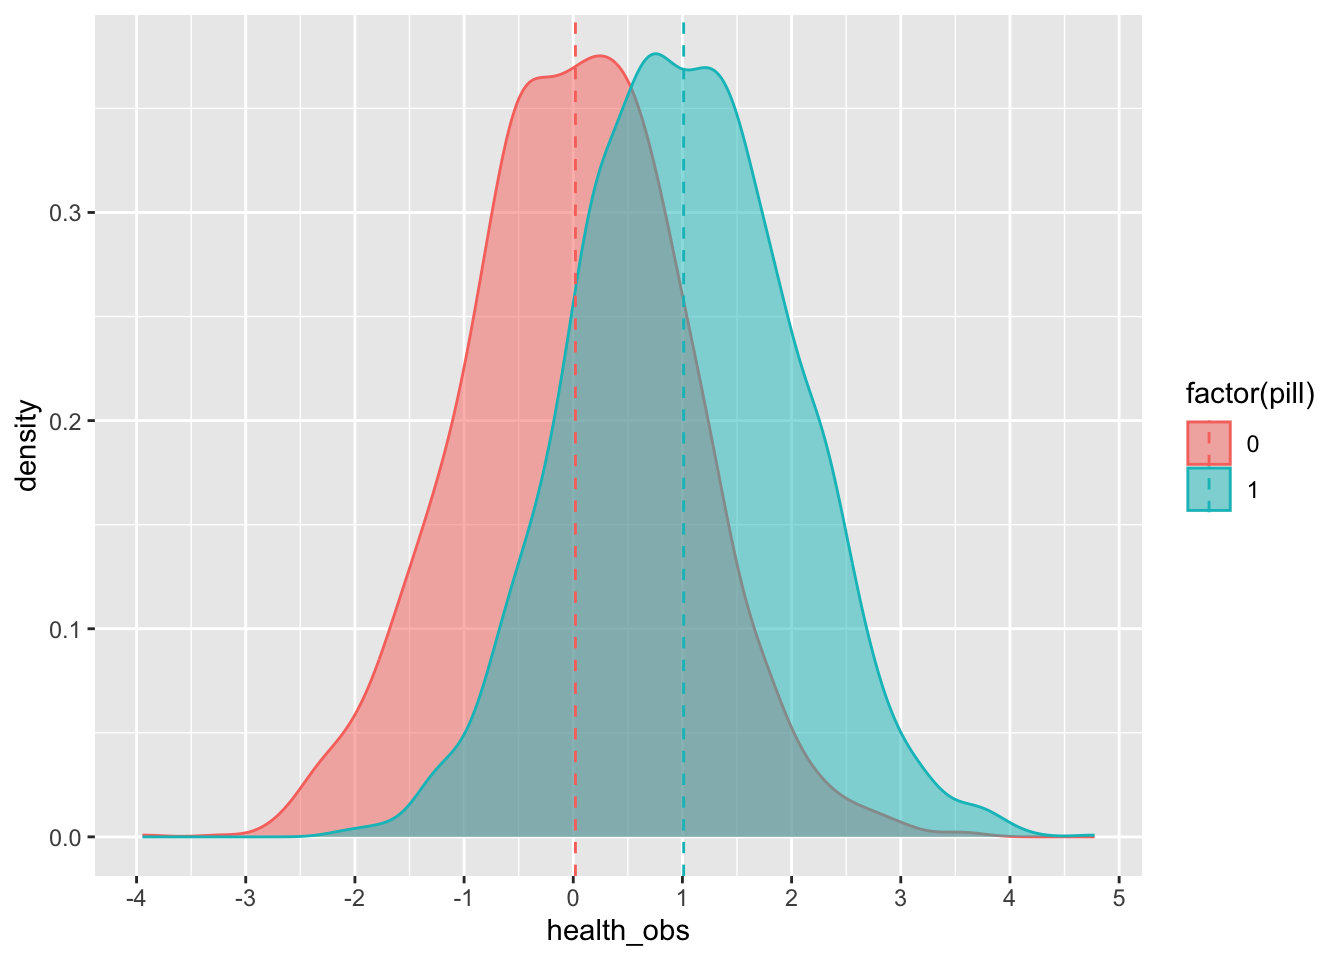
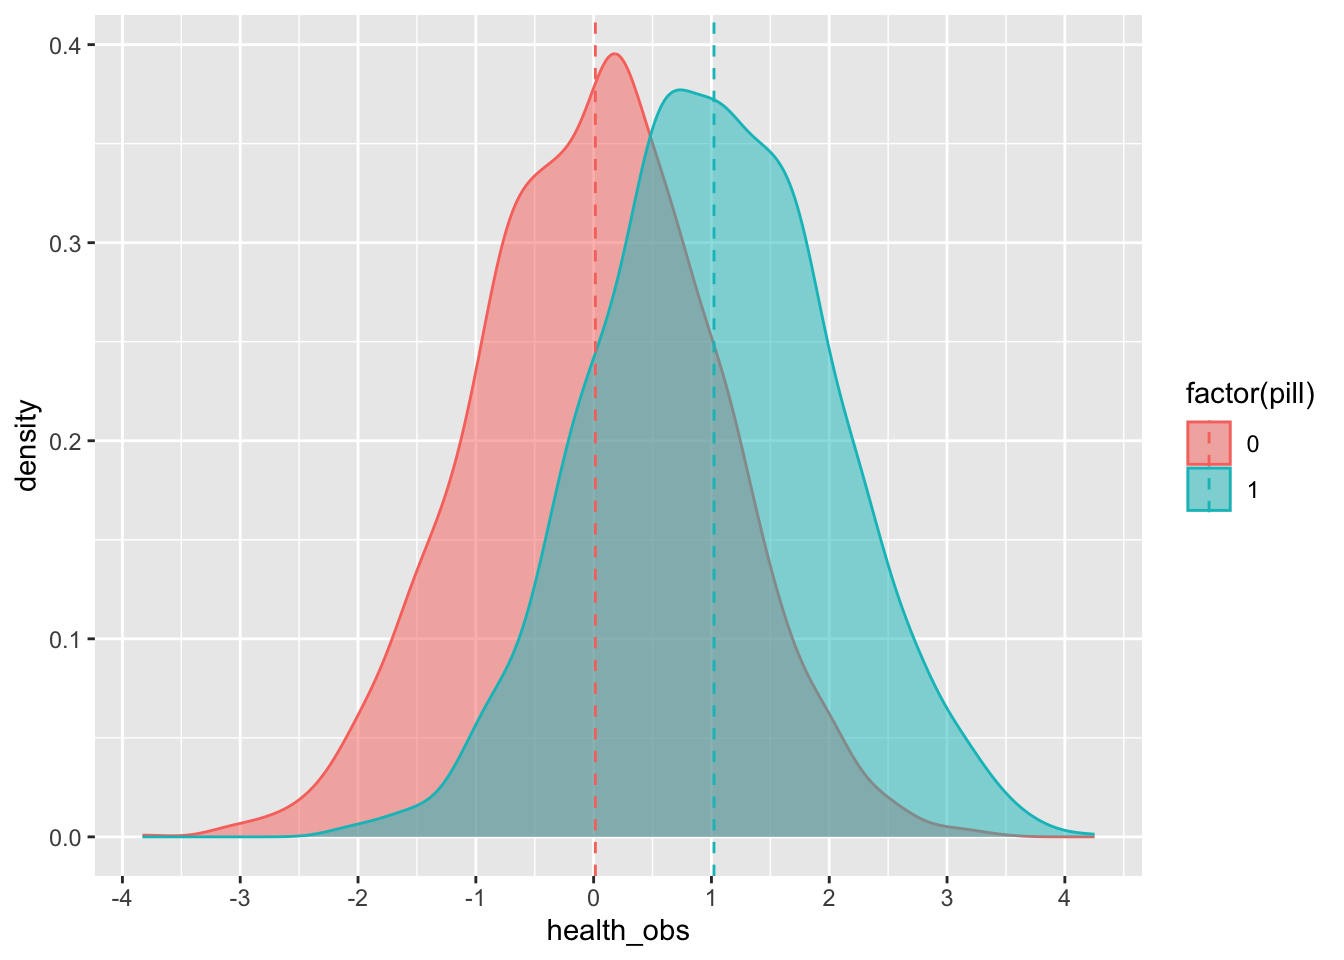
tutorial2

diff --git a/docs/lecture-2-introduction-to-causal-inference.html b/docs/lecture-2-introduction-to-causal-inference.html
@@ -95,11 +95,11 @@ Figure 2.1: Slides for 3 Introduction to Causal Inference.
 <tbody>
 <tr class="odd">
 <td align="left">0</td>
-<td align="right">2476</td>
+<td align="right">2469</td>
 </tr>
 <tr class="even">
 <td align="left">1</td>
-<td align="right">2524</td>
+<td align="right">2531</td>
 </tr>
 </tbody>
 </table></div>
@@ -112,25 +112,25 @@ Figure 2.1: Slides for 3 Introduction to Causal Inference.
 <div class="inline-figure"><img src="main_files/figure-html/unnamed-chunk-5-1.png" width="672"></div>
 <p>Now let’s give each individual the treatment (either the pill or a placebo):</p>
 <pre><code>## mutate: new variable 'health_obs' (double) with 5,000 unique values and 0% NA</code></pre>
-<pre><code>##    health_no_pill pill health_w_pill   health_obs
-## 1      1.33364349    0   2.333643493  1.333643493
-## 2     -0.19709937    1   0.802900628  0.802900628
-## 3      1.85517393    1   2.855173927  2.855173927
-## 4      0.37245335    0   1.372453354  0.372453354
-## 5     -1.03149909    1  -0.031499087 -0.031499087
-## 6      0.14477187    1   1.144771871  1.144771871
-## 7      0.64572252    0   1.645722523  0.645722523
-## 8     -0.55906908    0   0.440930916 -0.559069084
-## 9     -0.99831713    1   0.001682866  0.001682866
-## 10     0.05846733    1   1.058467326  1.058467326</code></pre>
+<pre><code>##    health_no_pill pill health_w_pill  health_obs
+## 1     -0.43945677    0    0.56054323 -0.43945677
+## 2     -1.05236396    1   -0.05236396 -0.05236396
+## 3      0.04267902    1    1.04267902  1.04267902
+## 4     -0.86632315    1    0.13367685  0.13367685
+## 5     -1.34246232    0   -0.34246232 -1.34246232
+## 6      2.72891583    1    3.72891583  3.72891583
+## 7      1.78485678    0    2.78485678  1.78485678
+## 8     -1.07057218    0   -0.07057218 -1.07057218
+## 9     -0.27621627    1    0.72378373  0.72378373
+## 10    -0.77165912    0    0.22834088 -0.77165912</code></pre>
 <p>We can see the average effect of the pill on the treated group (remember from the lecture that the <em>effect</em> is, in essence, the <em>difference</em> between those who receive the treatment, and those who do not):</p>
 <pre><code>## group_by: one grouping variable (pill)
 ## summarize: now 2 rows and 2 columns, ungrouped</code></pre>
 <pre><code>## # A tibble: 2 × 2
 ##    pill health
 ##   &lt;dbl&gt;  &lt;dbl&gt;
-## 1     0 0.0201
-## 2     1 1.01</code></pre>
+## 1     0 0.0147
+## 2     1 1.02</code></pre>
 <p>Or we can plot it:</p>
 <pre><code>## group_by: one grouping variable (pill)
 ## mutate (grouped): new variable 'mean_health_obs' (double) with 2 unique values and 0% NA
@@ -146,34 +146,34 @@ Figure 2.1: Slides for 3 Introduction to Causal Inference.
 ##         new variable 'health_w_pill' (double) with 10,000 unique values and 0% NA
 ## mutate: new variable 'pill' (logical) with 2 unique values and 0% NA
 ##         new variable 'health_obs' (double) with 10,000 unique values and 0% NA</code></pre>
-<pre><code>##       income health_no_pill health_w_pill  pill health_obs
-## 1  0.3448668     1.05566749     2.0556675 FALSE  1.0556675
-## 2  0.7134770    -0.51422408     0.4857759  TRUE  0.4857759
-## 3  0.5415532     1.27695203     2.2769520 FALSE  1.2769520
-## 4  0.1704781    -0.38093773     0.6190623 FALSE -0.3809377
-## 5  0.7376249     0.64570710     1.6457071  TRUE  1.6457071
-## 6  0.6406213    -1.22942589    -0.2294259 FALSE -1.2294259
-## 7  0.5169641     0.19002300     1.1900230 FALSE  0.1900230
-## 8  0.2747652     2.07207407     3.0720741 FALSE  2.0720741
-## 9  0.8697779     0.09395451     1.0939545  TRUE  1.0939545
-## 10 0.8876735     1.80845199     2.8084520  TRUE  2.8084520</code></pre>
+<pre><code>##        income health_no_pill health_w_pill  pill health_obs
+## 1  0.11974342      0.2470892     1.2470892 FALSE  0.2470892
+## 2  0.74869728     -0.1040237     0.8959763  TRUE  0.8959763
+## 3  0.50897495      1.1704218     2.1704218 FALSE  1.1704218
+## 4  0.86843983      0.8450206     1.8450206  TRUE  1.8450206
+## 5  0.04522417      0.1634942     1.1634942 FALSE  0.1634942
+## 6  0.96812687     -0.1629472     0.8370528  TRUE  0.8370528
+## 7  0.01629560      1.0896066     2.0896066 FALSE  1.0896066
+## 8  0.80284658      1.4072650     2.4072650  TRUE  2.4072650
+## 9  0.84004268      1.7714693     2.7714693  TRUE  2.7714693
+## 10 0.03921411     -0.7461628     0.2538372 FALSE -0.7461628</code></pre>
 <p>Let’s see what happens now to the estimated mean average ‘effect’ (remember from the lecture that the <em>effect</em> is, in essence, the <em>difference</em> between those who receive the treatment, and those who do not):</p>
 <pre><code>## group_by: one grouping variable (pill)
 ## summarize: now 2 rows and 2 columns, ungrouped</code></pre>
 <pre><code>## # A tibble: 2 × 2
 ##   pill  health
 ##   &lt;lgl&gt;  &lt;dbl&gt;
-## 1 FALSE  0.372
-## 2 TRUE   1.85</code></pre>
+## 1 FALSE  0.358
+## 2 TRUE   1.84</code></pre>
 <p>Oh no! That is more than the actual effect of the pill, which we <em>know</em> is 1 since we created it. However, if we were to properly model (this is an RDD!), then (remember from the lecture that the <em>effect</em> is, in essence, the <em>difference</em> between those who receive the treatment, and those who do not):</p>
-<pre><code>## filter: removed 9,803 rows (98%), 197 rows remaining
+<pre><code>## filter: removed 9,796 rows (98%), 204 rows remaining
 ## group_by: one grouping variable (pill)
 ## summarize: now 2 rows and 2 columns, ungrouped</code></pre>
 <pre><code>## # A tibble: 2 × 2
 ##   pill  health
 ##   &lt;lgl&gt;  &lt;dbl&gt;
-## 1 FALSE  0.864
-## 2 TRUE   1.76</code></pre>
+## 1 FALSE  0.753
+## 2 TRUE   1.68</code></pre>
 
 </div>
 </div>

diff --git a/docs/tutorial-2-key-concepts.html b/docs/tutorial-2-key-concepts.html
@@ -6,14 +6,14 @@
 <meta name="viewport" content="width=device-width, initial-scale=1, shrink-to-fit=no">
 <title>Chapter 5 Tutorial 2: Key Concepts | PS9591: Regressions and Causal Inference</title>
 <meta name="author" content="Dr. Sebastián Vallejo Vera | Western University">
-<meta name="description" content="What is this tutorial about? You can access this tutorial by clicking [here]. The tutorial will quiz you on key concepts from Chapter 1 of “Causal Inference: What If” by Hernán and Robins as well...">
+<meta name="description" content="What is this tutorial about? You can access this tutorial by clicking here. The tutorial will quiz you on key concepts from Chapter 1 of “Causal Inference: What If” by Hernán and Robins as well as...">
 <meta name="generator" content="bookdown 0.42 with bs4_book()">
 <meta property="og:title" content="Chapter 5 Tutorial 2: Key Concepts | PS9591: Regressions and Causal Inference">
 <meta property="og:type" content="book">
-<meta property="og:description" content="What is this tutorial about? You can access this tutorial by clicking [here]. The tutorial will quiz you on key concepts from Chapter 1 of “Causal Inference: What If” by Hernán and Robins as well...">
+<meta property="og:description" content="What is this tutorial about? You can access this tutorial by clicking here. The tutorial will quiz you on key concepts from Chapter 1 of “Causal Inference: What If” by Hernán and Robins as well as...">
 <meta name="twitter:card" content="summary">
 <meta name="twitter:title" content="Chapter 5 Tutorial 2: Key Concepts | PS9591: Regressions and Causal Inference">
-<meta name="twitter:description" content="What is this tutorial about? You can access this tutorial by clicking [here]. The tutorial will quiz you on key concepts from Chapter 1 of “Causal Inference: What If” by Hernán and Robins as well...">
+<meta name="twitter:description" content="What is this tutorial about? You can access this tutorial by clicking here. The tutorial will quiz you on key concepts from Chapter 1 of “Causal Inference: What If” by Hernán and Robins as well as...">
 <!-- JS --><script src="https://cdnjs.cloudflare.com/ajax/libs/clipboard.js/2.0.6/clipboard.min.js" integrity="sha256-inc5kl9MA1hkeYUt+EC3BhlIgyp/2jDIyBLS6k3UxPI=" crossorigin="anonymous"></script><script src="https://cdnjs.cloudflare.com/ajax/libs/fuse.js/6.4.6/fuse.js" integrity="sha512-zv6Ywkjyktsohkbp9bb45V6tEMoWhzFzXis+LrMehmJZZSys19Yxf1dopHx7WzIKxr5tK2dVcYmaCk2uqdjF4A==" crossorigin="anonymous"></script><script src="https://kit.fontawesome.com/6ecbd6c532.js" crossorigin="anonymous"></script><script src="libs/jquery-3.6.0/jquery-3.6.0.min.js"></script><meta name="viewport" content="width=device-width, initial-scale=1, shrink-to-fit=no">
 <link href="libs/bootstrap-4.6.0/bootstrap.min.css" rel="stylesheet">
 <script src="libs/bootstrap-4.6.0/bootstrap.bundle.min.js"></script><script src="libs/bs3compat-0.7.0/transition.js"></script><script src="libs/bs3compat-0.7.0/tabs.js"></script><script src="libs/bs3compat-0.7.0/bs3compat.js"></script><link href="libs/bs4_book-1.0.0/bs4_book.css" rel="stylesheet">
@@ -64,7 +64,7 @@
 <div id="what-is-this-tutorial-about" class="section level2 unnumbered">
 <h2>What is this tutorial about?<a class="anchor" aria-label="anchor" href="#what-is-this-tutorial-about"><i class="fas fa-link"></i></a>
 </h2>
-<p>You can access this tutorial by clicking [here]. The tutorial will quiz you on key concepts from Chapter 1 of “Causal Inference: What If” by Hernán and Robins as well as Chapter 3 (“Describing Variables”) of “The Effect” by Huntington-Klein.</p>
+<p>You can access this tutorial by clicking <a href="https://ci1yq0-sebastian0vallejo.shinyapps.io/tutorial2/">here</a>. The tutorial will quiz you on key concepts from Chapter 1 of “Causal Inference: What If” by Hernán and Robins as well as Chapter 3 (“Describing Variables”) of “The Effect” by Huntington-Klein.</p>
 
 </div>
 </div>
